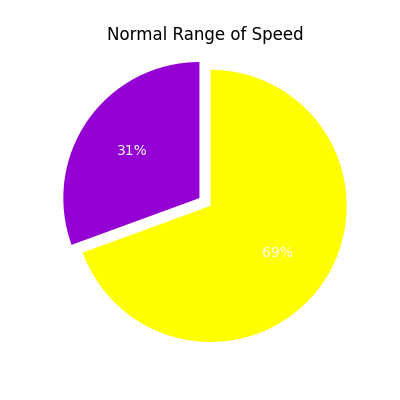
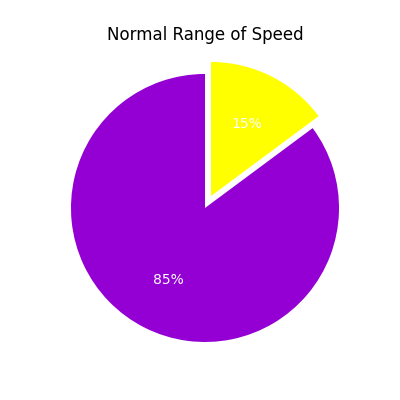
final_version_yolo11n

Changed region(s): [[0.15, 0.15, 0.87, 0.87], [0.57, 0.3, 0.66, 0.33], [0.3, 0.36, 0.36, 0.39]]

diff --git a/main.py b/main.py
@@ -9,7 +9,7 @@ from get_wrong_way_and_speeding import wrong_way_drive, get_real_speed
 
 
 file_path = "./videos/test2.mp4"
-cctv_id = "best_11n_newdataset_v1"
+cctv_id = "final_tune1_v2_no_conf"
 cap = cv2.VideoCapture(file_path)
 
 
@@ -19,9 +19,9 @@ fps = cap.get(cv2.CAP_PROP_FPS)
 one_second = 1 * 16 / fps
 
 
-model = YOLO("final_tune1.pt")
+model = YOLO("yolo11n.pt")
 print("Classes:", model.names)
-# model1 = YOLO("yolov8n.pt")
+
 
 #  Classes: {0: 'bus', 1: 'car', 2: 'motorcycle', 3: 'people', 4: 'person', 5: 'truck'}
 # 실시간으로 4초 120개의 frame을 저장할 리스트 dq 설정
@@ -51,51 +51,16 @@ while cap.isOpened():
     if not success:
         break
 
-    # =================================================================
-    # =======================  오토바이 & 사람 탐지  =====================
-    # =================================================================
-
-    # # 사람과 오토바이 탐지 YOLO 모델 적용
-    # detect_motorcycle = model1.track(frame, verbose=False, persist=True, classes=[0, 3])
-
-    # for box in detect_motorcycle[0].boxes:
-    #     if box.id is None:
-    #         continue
-    #     else:
-    #         M_id = int(box.id)
-    #         cls = int(box.cls)
-    #         mx, my, _, _ = box.xywh[0].tolist()
-    #         date_time = datetime.now()
-    #         file_name = f"motorcycle_people_{date_time.strftime("%Y_%m_%d_%H_%M_%S")}"
-    #         # column = ["type", "direction", "speed", "datetime", "illegal", "file_name"]
-    #         recording_start[M_id] = [(frame_count + 60), file_name, mx, my]
-
-    #         # 불법차량 빨간색 원으로 표시할 좌표
-    #         try:
-    #             recording_start[M_id][2] = mx
-    #             recording_start[M_id][3] = my
-    #         except:
-    #             pass
-
-    #         if cls == 0:
-    #             print("경고! 고속도로 위에서 사람 발견")
-
-    #         elif cls == 3:
-    #             print("경고! 고속도로 위에서 오토바이 발견")
 
     # 원본 프레임을 720x480으로 리사이즈
-    # frame = cv2.resize(frame, (720, 480))
+    frame = cv2.resize(frame, (720, 480))
 
 
-    # 분석하지 않는 화면 하얀색으로 전처리
-
-    # frame[:450, :] = 0  # 화면 상단 하얀색으로 전처리
-    frame[:200, :] = 0
+    frame[:100, :] = 0
     results = model.track(
-        frame, verbose=False, persist=True, conf=0.4,classes=[0, 1, 2, 3, 4, 5, 7], tracker="botsort.yaml"
+        frame, verbose=False, persist=True, conf=0.3, classes=[0, 1, 2, 3, 4, 5, 7], tracker="bytetrack.yaml"
     )
 
-    # conf=0.5 , tracker="botsort.yaml"
     result = results[0].plot()
     for box in results[0].boxes:
 
@@ -105,7 +70,43 @@ while cap.isOpened():
         # 차량 ID와 그 차량의 중심값
         tid = int(box.id)
 
+        cls = int(box.cls)
+
         cx, cy, _, _ = box.xywh[0].tolist()
+
+        # =================================================================
+        # =======================  오토바이 & 사람 탐지  =====================
+        # =================================================================
+
+        if cls == 0:
+            print("경고! 고속도로 위에서 사람 발견")
+            date_time = datetime.now()
+            file_name = f"person_{date_time.strftime('%Y_%m_%d_%H_%M_%S')}"                 
+            # column = ["type", "direction", "speed", "datetime", "illegal", "file_name"]
+            recording_start[tid] = [(frame_count + 60), file_name, cx, cy]
+
+            # 불법차량 빨간색 원으로 표시할 좌표
+            try:
+                recording_start[tid][2] = cx
+                recording_start[tid][3] = cy
+            except:
+                pass
+
+
+        if cls == 3:
+            print("경고! 고속도로 위에서 오토바이 발견")
+            date_time = datetime.now()
+            file_name = f"motorcycle_{date_time.strftime('%Y_%m_%d_%H_%M_%S')}"                 
+            # column = ["type", "direction", "speed", "datetime", "illegal", "file_name"]
+            recording_start[tid] = [(frame_count + 60), file_name, cx, cy]
+
+            # 불법차량 빨간색 원으로 표시할 좌표
+            try:
+                recording_start[tid][2] = cx
+                recording_start[tid][3] = cy
+            except:
+                pass
+
 
         # =================================================================
         # ===============  차량 속도데이터 수집을 시작합니다. ===================
@@ -141,7 +142,7 @@ while cap.isOpened():
         # ★★★★★★★★★★★★★★★★★★★★★★★★★★★★★★★★
 
         # in_zone = 300 < cy < 330  # test1 video        
-        in_zone = 510 < cy < 540  # test2 video
+        in_zone = 250 < cy < 260  # test2 video
         # ★★★★★★★★★★★★★★★★★★★★★★★★★★★★★★★★
 
         # ++++++++++++++++++++++++++++++++++++++++++++++++++++++++++++++++++++++++++++++++
@@ -153,12 +154,12 @@ while cap.isOpened():
 
          # ★★★★★★★★★★★★★★★★★★★★★★★★★★★★★★★★
          #test1 video
-        # cv2.line(result, (0, 300), (1920, 300), (0, 255, 0), 2)  # 상단 경계선
-        # cv2.line(result, (0, 320), (1920, 320), (0, 255, 0), 2)  # 하단 경계선
+        # cv2.line(result, (0, 200), (720, 200), (0, 255, 0), 2)  # 상단 경계선
+        # cv2.line(result, (0, 210), (720, 210), (0, 255, 0), 2)  # 하단 경계선
         
         #test2 video
-        cv2.line(result, (0, 510), (1920, 510), (0, 255, 0), 2)  # 상단 경계선
-        cv2.line(result, (0, 540), (1920, 540), (0, 255, 0), 2)  # 하단 경계선
+        cv2.line(result, (0, 250), (720, 250), (0, 255, 0), 2)  # 상단 경계선
+        cv2.line(result, (0, 260), (720, 260), (0, 255, 0), 2)  # 하단 경계선
          # ★★★★★★★★★★★★★★★★★★★★★★★★★★★★★★★★
 
         if tid not in vehicle_id and in_zone:
@@ -254,6 +255,7 @@ while cap.isOpened():
         cy = int(recording_start[key][3])
         # 불법차량 녹화 작동여부 확인소 3번째
         # print(key, cx, cy, recording_start[key])
+        cv2.circle(frame, (cx, cy), 20, (0, 0, 255), 3)
         cv2.circle(result, (cx, cy), 20, (0, 0, 255), 3)
 
     # 리코딩 시작:  아이디 그리고 불법 종류 별로
@@ -276,7 +278,7 @@ while cap.isOpened():
     cv2.imshow("frame", result)
 
     # 녹화할 영상 dq에  담기
-    dq.append(result)
+    dq.append(frame)
 
     if cv2.waitKey(1) & 0xFF == ord("p"):
         print(df.tail())
